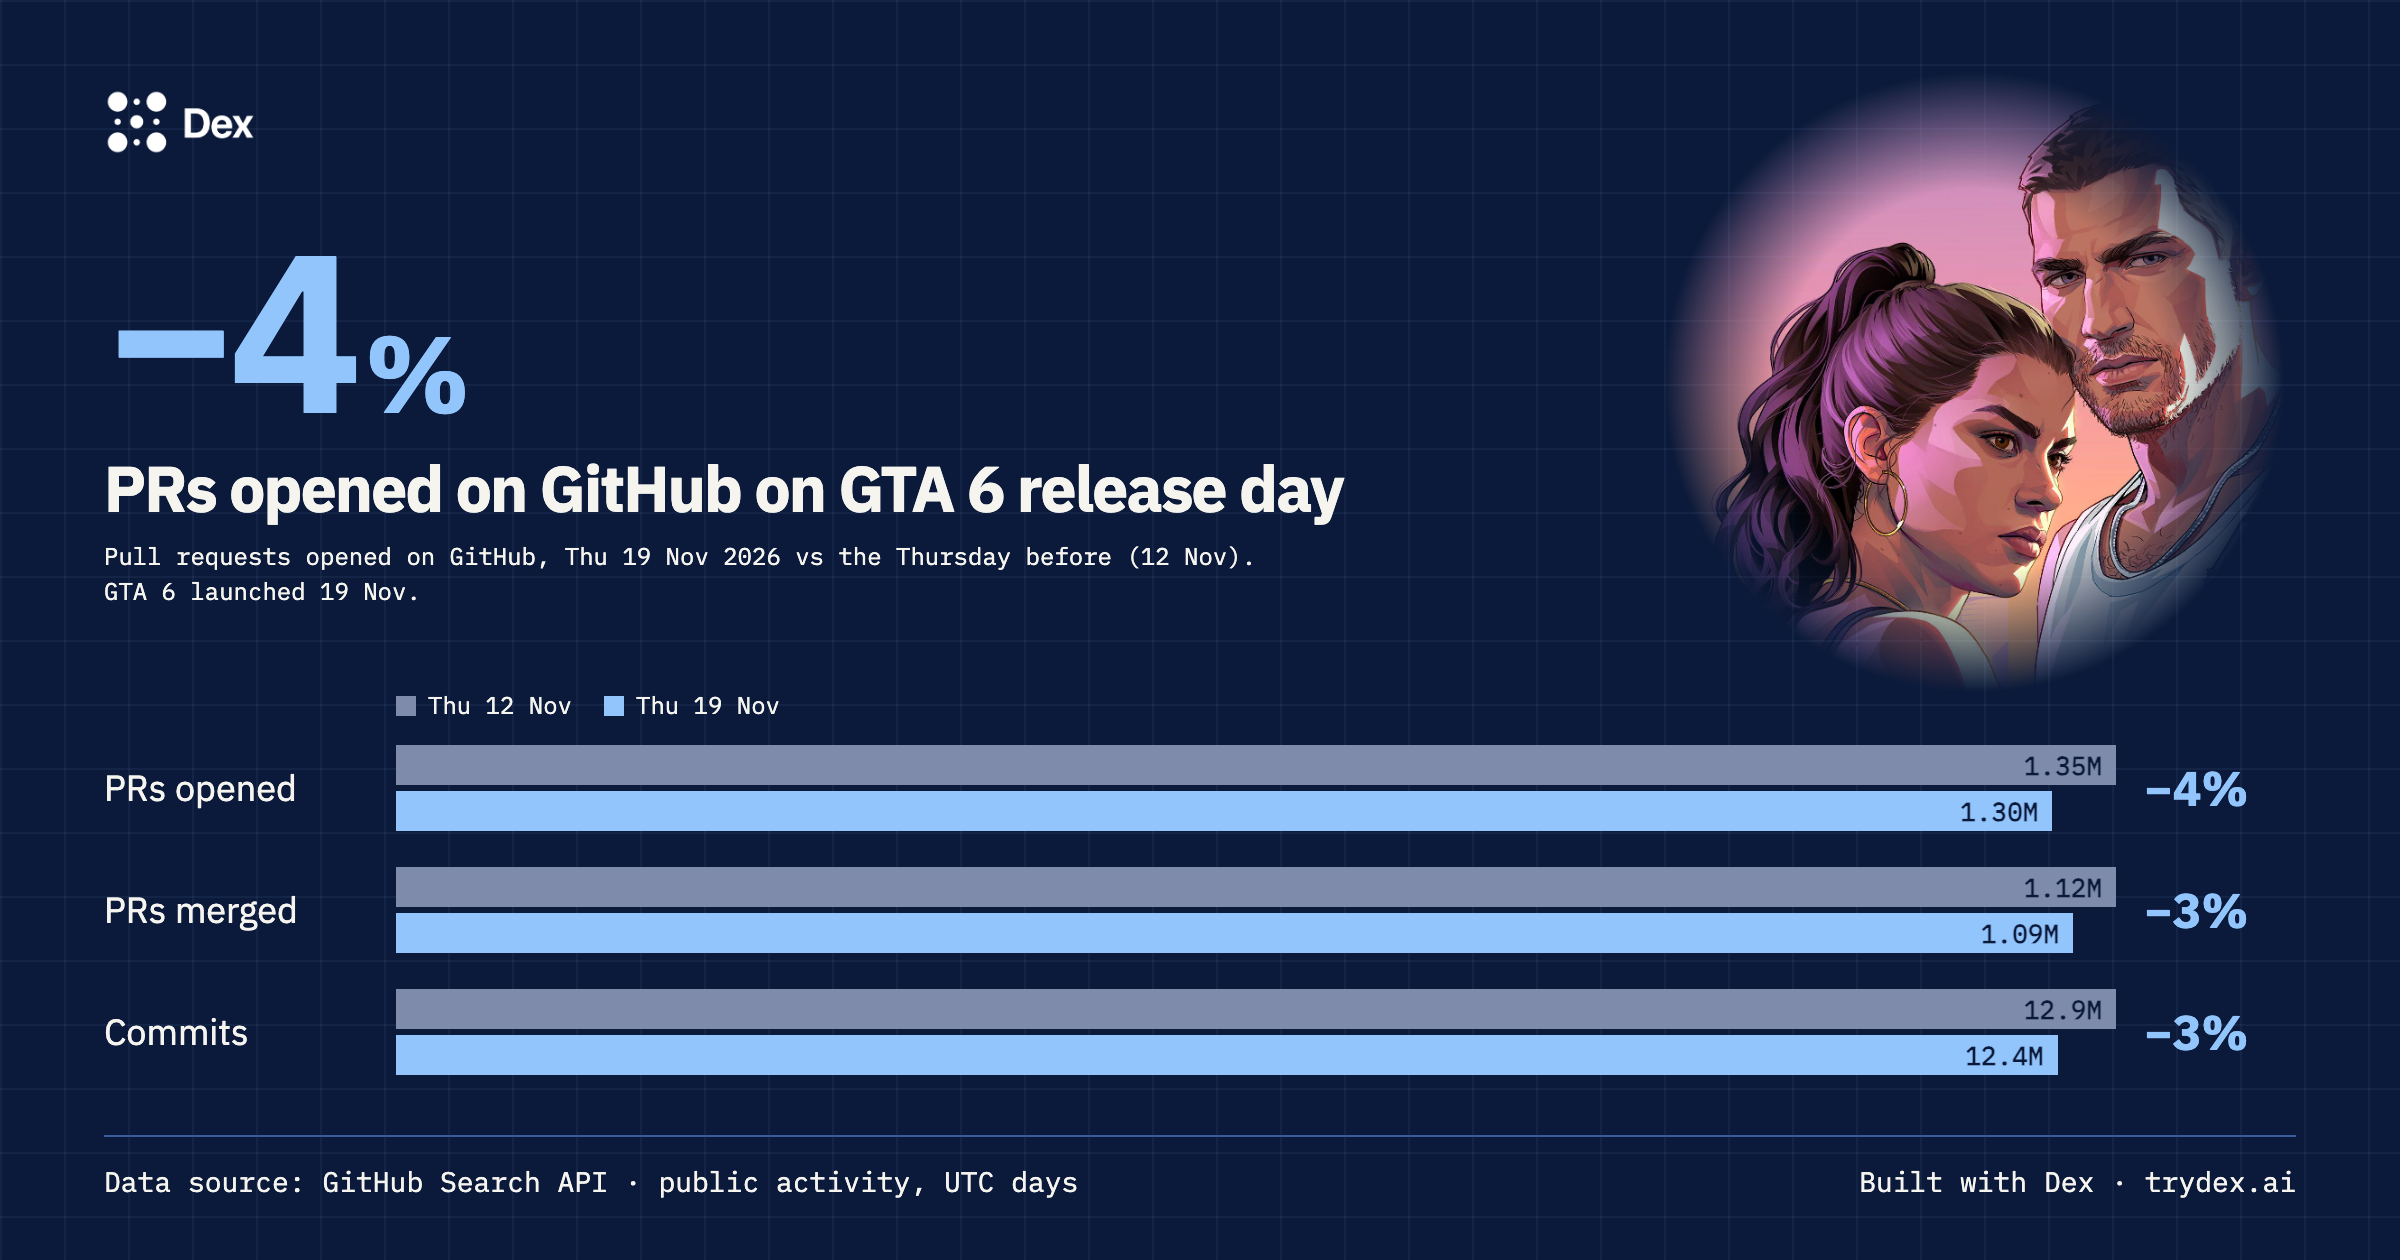
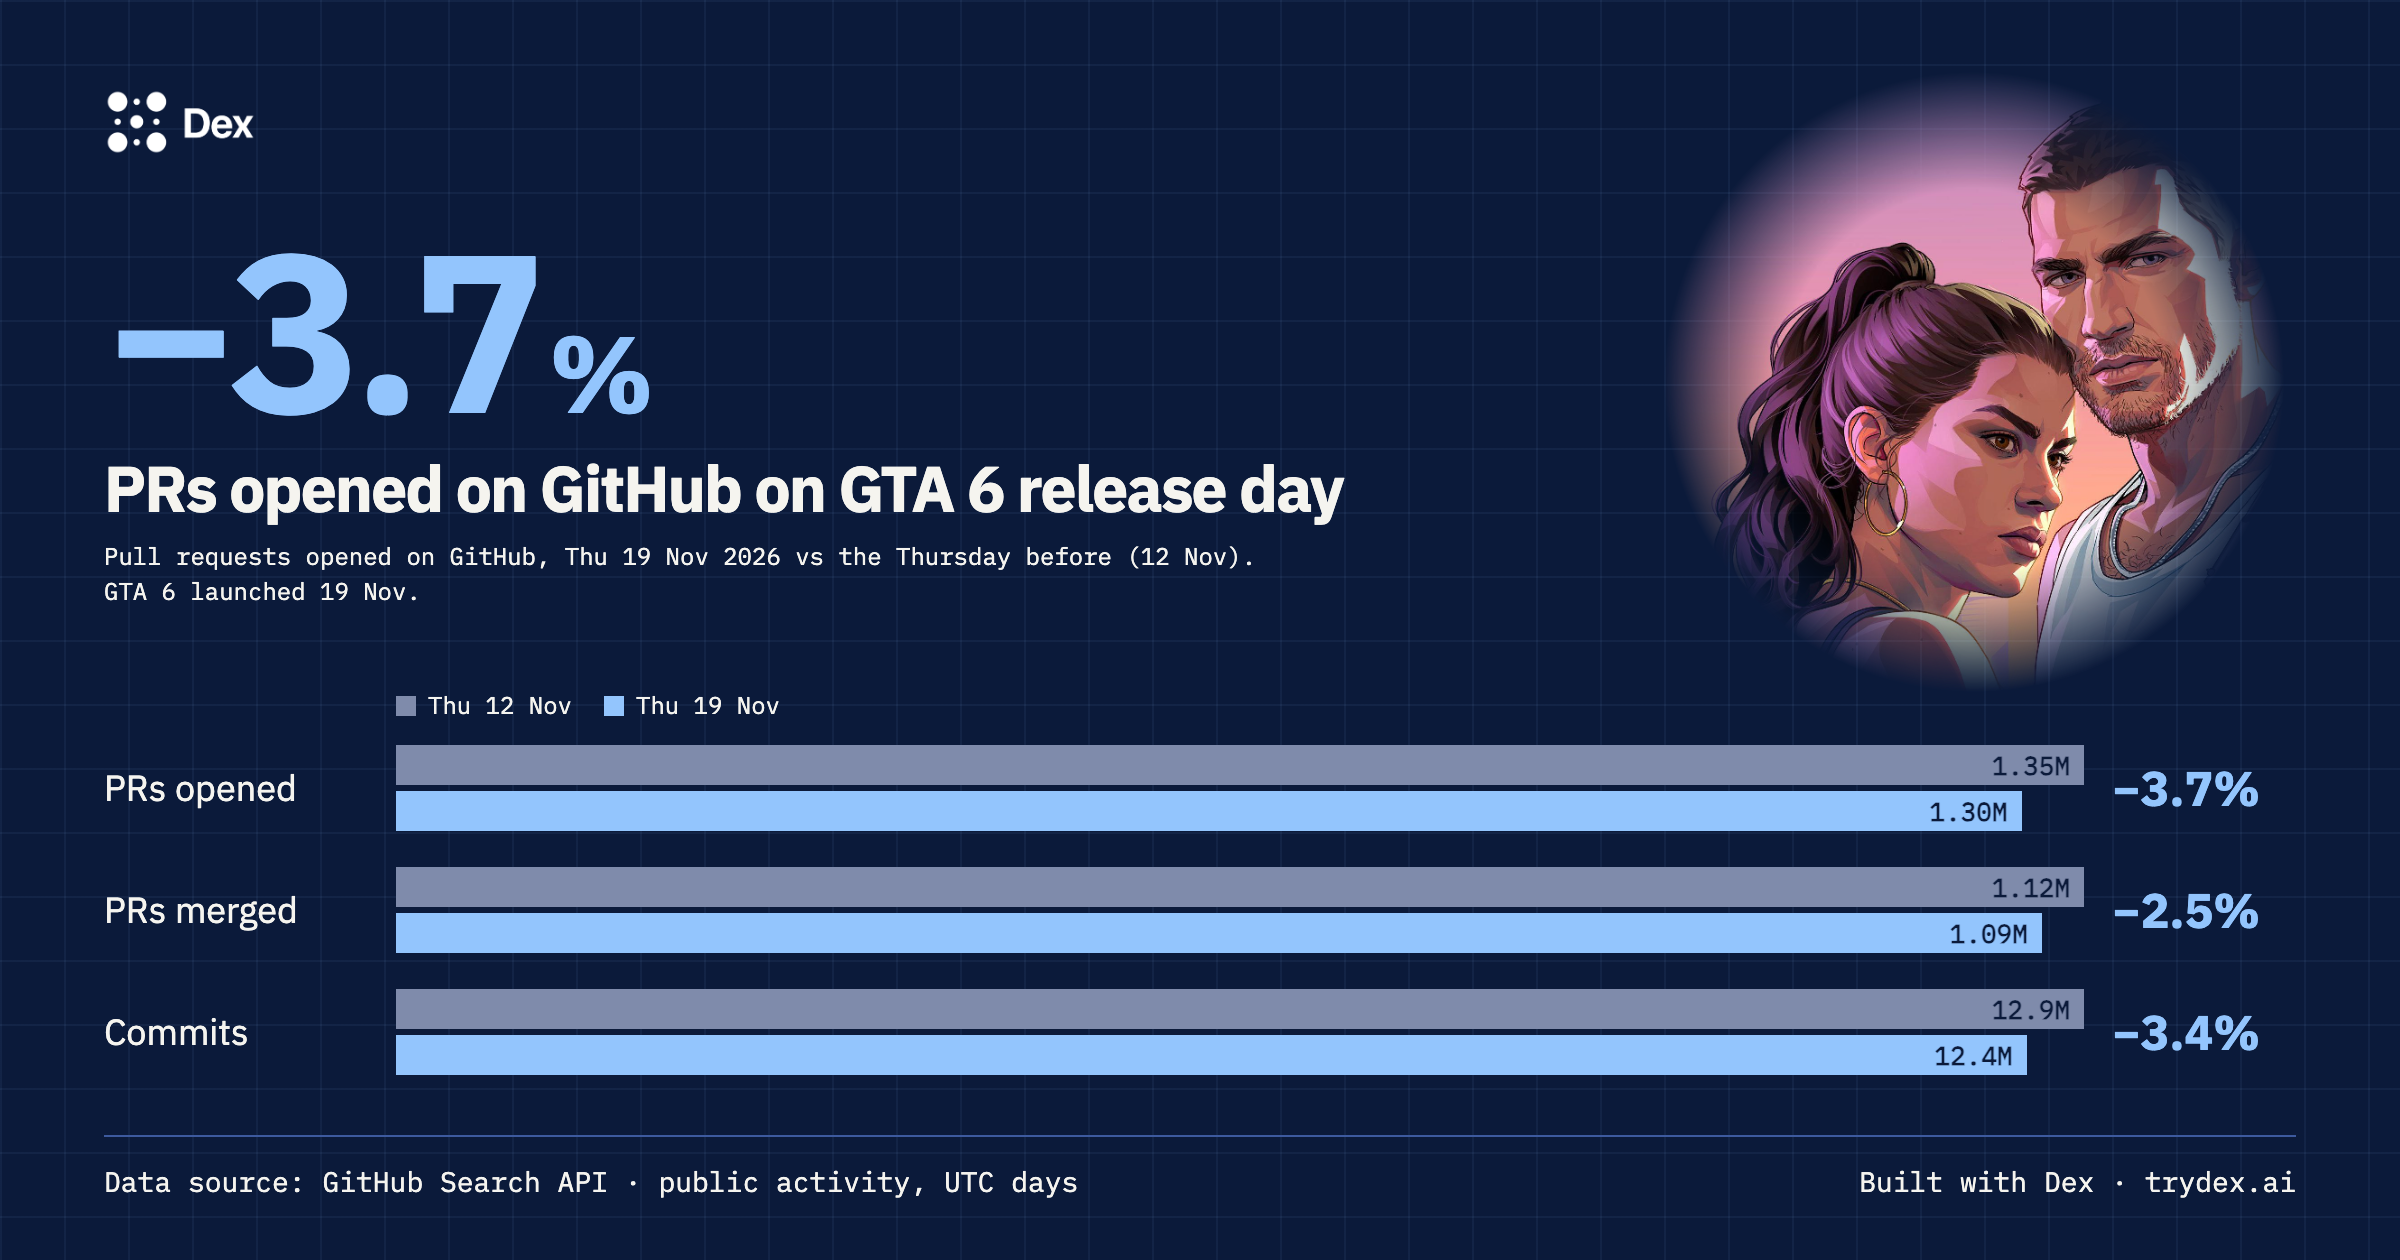
Metric 4 card: one decimal (−3.7%), no rounding
Change column widened on this card only (.card.decimals); Metric 1's card is unchanged.

Changed region(s): [[0.0938, 0.1857, 0.2812, 0.3405], [0.8125, 0.5881, 0.9375, 0.8667]]

diff --git a/charts/github-release-day-portrait-dark.html b/charts/github-release-day-portrait-dark.html
@@ -12,7 +12,7 @@
 </script>
 </head>
 <body>
-<div class="card portrait" style="width:720px;height:900px">
+<div class="card portrait decimals" style="width:720px;height:900px">
   <figure class="aside">
     <img alt="Lucia and Jason, the two leads of GTA 6" src="../assets/gta-6-lucia-and-the-guy.jpg">
   </figure>
@@ -22,13 +22,13 @@
   <div class="main">
     <div class="hero">
       <div>
-        <div class="big">−4<small>%</small></div>
+        <div class="big">−3.7<small>%</small></div>
         <h1>PRs opened on GitHub on GTA 6 release day</h1>
         <p class="fine">Pull requests opened on GitHub,
         <span class="nw">Thu 19 Nov 2026</span> vs
         <span class="nw">the Thursday before (12 Nov)</span>.<br>GTA 6 launched 19 Nov.</p>
       </div>
-      <div class="yoy"><div></div><div class="key"><span><i class="prior"></i>Thu 12 Nov</span><span><i class="current"></i>Thu 19 Nov</span></div><div class="term">PRs opened</div><div class="pair"><b class="prior" style="width:100.0%">1.35M</b><b class="current" style="width:96.3%">1.30M</b></div><div class="change">−4%</div><div class="term">PRs merged</div><div class="pair"><b class="prior" style="width:100.0%">1.12M</b><b class="current" style="width:97.5%">1.09M</b></div><div class="change">−3%</div><div class="term">Commits</div><div class="pair"><b class="prior" style="width:100.0%">12.9M</b><b class="current" style="width:96.6%">12.4M</b></div><div class="change">−3%</div></div>
+      <div class="yoy"><div></div><div class="key"><span><i class="prior"></i>Thu 12 Nov</span><span><i class="current"></i>Thu 19 Nov</span></div><div class="term">PRs opened</div><div class="pair"><b class="prior" style="width:100.0%">1.35M</b><b class="current" style="width:96.3%">1.30M</b></div><div class="change">−3.7%</div><div class="term">PRs merged</div><div class="pair"><b class="prior" style="width:100.0%">1.12M</b><b class="current" style="width:97.5%">1.09M</b></div><div class="change">−2.5%</div><div class="term">Commits</div><div class="pair"><b class="prior" style="width:100.0%">12.9M</b><b class="current" style="width:96.6%">12.4M</b></div><div class="change">−3.4%</div></div>
     </div>
   </div>
   <div class="foot"><span>Data source: GitHub Search API <span class="unit">· public activity, UTC days</span></span><span>Built with <b>Dex</b> · trydex.ai</span></div>

diff --git a/charts/github-release-day-portrait.html b/charts/github-release-day-portrait.html
@@ -12,7 +12,7 @@
 </script>
 </head>
 <body>
-<div class="card portrait" style="width:720px;height:900px">
+<div class="card portrait decimals" style="width:720px;height:900px">
   <figure class="aside">
     <img alt="Lucia and Jason, the two leads of GTA 6" src="../assets/gta-6-lucia-and-the-guy.jpg">
   </figure>
@@ -22,13 +22,13 @@
   <div class="main">
     <div class="hero">
       <div>
-        <div class="big">−4<small>%</small></div>
+        <div class="big">−3.7<small>%</small></div>
         <h1>PRs opened on GitHub on GTA 6 release day</h1>
         <p class="fine">Pull requests opened on GitHub,
         <span class="nw">Thu 19 Nov 2026</span> vs
         <span class="nw">the Thursday before (12 Nov)</span>.<br>GTA 6 launched 19 Nov.</p>
       </div>
-      <div class="yoy"><div></div><div class="key"><span><i class="prior"></i>Thu 12 Nov</span><span><i class="current"></i>Thu 19 Nov</span></div><div class="term">PRs opened</div><div class="pair"><b class="prior" style="width:100.0%">1.35M</b><b class="current" style="width:96.3%">1.30M</b></div><div class="change">−4%</div><div class="term">PRs merged</div><div class="pair"><b class="prior" style="width:100.0%">1.12M</b><b class="current" style="width:97.5%">1.09M</b></div><div class="change">−3%</div><div class="term">Commits</div><div class="pair"><b class="prior" style="width:100.0%">12.9M</b><b class="current" style="width:96.6%">12.4M</b></div><div class="change">−3%</div></div>
+      <div class="yoy"><div></div><div class="key"><span><i class="prior"></i>Thu 12 Nov</span><span><i class="current"></i>Thu 19 Nov</span></div><div class="term">PRs opened</div><div class="pair"><b class="prior" style="width:100.0%">1.35M</b><b class="current" style="width:96.3%">1.30M</b></div><div class="change">−3.7%</div><div class="term">PRs merged</div><div class="pair"><b class="prior" style="width:100.0%">1.12M</b><b class="current" style="width:97.5%">1.09M</b></div><div class="change">−2.5%</div><div class="term">Commits</div><div class="pair"><b class="prior" style="width:100.0%">12.9M</b><b class="current" style="width:96.6%">12.4M</b></div><div class="change">−3.4%</div></div>
     </div>
   </div>
   <div class="foot"><span>Data source: GitHub Search API <span class="unit">· public activity, UTC days</span></span><span>Built with <b>Dex</b> · trydex.ai</span></div>

diff --git a/charts/github-release-day-dark.html b/charts/github-release-day-dark.html
@@ -12,7 +12,7 @@
 </script>
 </head>
 <body>
-<div class="card" style="width:1200px;height:630px">
+<div class="card decimals" style="width:1200px;height:630px">
   <figure class="aside">
     <img alt="Lucia and Jason, the two leads of GTA 6" src="../assets/gta-6-lucia-and-the-guy.jpg">
   </figure>
@@ -22,13 +22,13 @@
   <div class="main">
     <div class="hero">
       <div>
-        <div class="big">−4<small>%</small></div>
+        <div class="big">−3.7<small>%</small></div>
         <h1>PRs opened on GitHub on GTA 6 release day</h1>
         <p class="fine">Pull requests opened on GitHub,
         <span class="nw">Thu 19 Nov 2026</span> vs
         <span class="nw">the Thursday before (12 Nov)</span>.<br>GTA 6 launched 19 Nov.</p>
       </div>
-      <div class="yoy"><div></div><div class="key"><span><i class="prior"></i>Thu 12 Nov</span><span><i class="current"></i>Thu 19 Nov</span></div><div class="term">PRs opened</div><div class="pair"><b class="prior" style="width:100.0%">1.35M</b><b class="current" style="width:96.3%">1.30M</b></div><div class="change">−4%</div><div class="term">PRs merged</div><div class="pair"><b class="prior" style="width:100.0%">1.12M</b><b class="current" style="width:97.5%">1.09M</b></div><div class="change">−3%</div><div class="term">Commits</div><div class="pair"><b class="prior" style="width:100.0%">12.9M</b><b class="current" style="width:96.6%">12.4M</b></div><div class="change">−3%</div></div>
+      <div class="yoy"><div></div><div class="key"><span><i class="prior"></i>Thu 12 Nov</span><span><i class="current"></i>Thu 19 Nov</span></div><div class="term">PRs opened</div><div class="pair"><b class="prior" style="width:100.0%">1.35M</b><b class="current" style="width:96.3%">1.30M</b></div><div class="change">−3.7%</div><div class="term">PRs merged</div><div class="pair"><b class="prior" style="width:100.0%">1.12M</b><b class="current" style="width:97.5%">1.09M</b></div><div class="change">−2.5%</div><div class="term">Commits</div><div class="pair"><b class="prior" style="width:100.0%">12.9M</b><b class="current" style="width:96.6%">12.4M</b></div><div class="change">−3.4%</div></div>
     </div>
   </div>
   <div class="foot"><span>Data source: GitHub Search API <span class="unit">· public activity, UTC days</span></span><span>Built with <b>Dex</b> · trydex.ai</span></div>

diff --git a/charts/github-release-day.html b/charts/github-release-day.html
@@ -12,7 +12,7 @@
 </script>
 </head>
 <body>
-<div class="card" style="width:1200px;height:630px">
+<div class="card decimals" style="width:1200px;height:630px">
   <figure class="aside">
     <img alt="Lucia and Jason, the two leads of GTA 6" src="../assets/gta-6-lucia-and-the-guy.jpg">
   </figure>
@@ -22,13 +22,13 @@
   <div class="main">
     <div class="hero">
       <div>
-        <div class="big">−4<small>%</small></div>
+        <div class="big">−3.7<small>%</small></div>
         <h1>PRs opened on GitHub on GTA 6 release day</h1>
         <p class="fine">Pull requests opened on GitHub,
         <span class="nw">Thu 19 Nov 2026</span> vs
         <span class="nw">the Thursday before (12 Nov)</span>.<br>GTA 6 launched 19 Nov.</p>
       </div>
-      <div class="yoy"><div></div><div class="key"><span><i class="prior"></i>Thu 12 Nov</span><span><i class="current"></i>Thu 19 Nov</span></div><div class="term">PRs opened</div><div class="pair"><b class="prior" style="width:100.0%">1.35M</b><b class="current" style="width:96.3%">1.30M</b></div><div class="change">−4%</div><div class="term">PRs merged</div><div class="pair"><b class="prior" style="width:100.0%">1.12M</b><b class="current" style="width:97.5%">1.09M</b></div><div class="change">−3%</div><div class="term">Commits</div><div class="pair"><b class="prior" style="width:100.0%">12.9M</b><b class="current" style="width:96.6%">12.4M</b></div><div class="change">−3%</div></div>
+      <div class="yoy"><div></div><div class="key"><span><i class="prior"></i>Thu 12 Nov</span><span><i class="current"></i>Thu 19 Nov</span></div><div class="term">PRs opened</div><div class="pair"><b class="prior" style="width:100.0%">1.35M</b><b class="current" style="width:96.3%">1.30M</b></div><div class="change">−3.7%</div><div class="term">PRs merged</div><div class="pair"><b class="prior" style="width:100.0%">1.12M</b><b class="current" style="width:97.5%">1.09M</b></div><div class="change">−2.5%</div><div class="term">Commits</div><div class="pair"><b class="prior" style="width:100.0%">12.9M</b><b class="current" style="width:96.6%">12.4M</b></div><div class="change">−3.4%</div></div>
     </div>
   </div>
   <div class="foot"><span>Data source: GitHub Search API <span class="unit">· public activity, UTC days</span></span><span>Built with <b>Dex</b> · trydex.ai</span></div>

diff --git a/brand/charts.css b/brand/charts.css
@@ -105,6 +105,9 @@ h1 .red { color: var(--dex-redline); }
 .card.portrait .yoy .term { font-size: 19px; }
 .card.portrait .yoy .pair b { height: 24px; }
 .card.portrait .yoy .change { font-size: 26px; }
+/* One-decimal changes (−3.7%) need a wider last column than whole ones. */
+.card.decimals .yoy { grid-template-columns: 132px 1fr 92px; }
+.card.portrait.decimals .yoy { grid-template-columns: 136px 1fr 100px; }
 .card.portrait .foot { flex-direction: column; align-items: flex-start; gap: 4px; font-size: 13px; }
 
 /* Metric 2: the two GTA launches as quiet bookends, not alerts. */

diff --git a/site/index.html b/site/index.html
@@ -68,7 +68,7 @@
 <main>
 <header>
   <img id="logo" alt="Dex" src="brand/assets/dex-logo-black.png">
-  <span class="meta">GTA 6 vs. productivity · updated 2026-11-20 09:20 UTC</span>
+  <span class="meta">GTA 6 vs. productivity · updated 2026-11-20 09:27 UTC</span>
 </header>
 <h1>Between GTA 5 and GTA 6, humanity made <em>$1.14 quadrillion</em> of stuff.</h1>
 <p class="lede">4,811 days of world output, from 17 September 2013 to the night before GTA 6. We landed on a comet. We photographed a black hole. We caught a spaceship. Now we play GTA.</p>

diff --git a/src/gta6_impact/charts/build.py b/src/gta6_impact/charts/build.py
@@ -214,8 +214,8 @@ def _millions(v: float) -> str:
 
 
 def _signed(v: float) -> str:
-    """+3 or −3, with a real minus sign: a hyphen reads as a dash at display sizes."""
-    return f"{v:+.0f}".replace("-", "\u2212")
+    """+3.7 or −3.7, one decimal, with a real minus sign (a hyphen reads as a dash)."""
+    return f"{v:+.1f}".replace("-", "\u2212")
 
 
 def _short(day: dt.date) -> str:
@@ -315,8 +315,8 @@ def github_card(png: bool) -> dict | None:
     <img alt="Lucia and Jason, the two leads of GTA 6" src="../assets/gta-6-lucia-and-the-guy.jpg">
   </figure>"""
     for name, w, h, variant in (
-        ("github-release-day", 1200, 630, ""),
-        ("github-release-day-portrait", 720, 900, "portrait"),
+        ("github-release-day", 1200, 630, "decimals"),
+        ("github-release-day-portrait", 720, 900, "portrait decimals"),
     ):
         _write(
             name,
@@ -326,7 +326,7 @@ def github_card(png: bool) -> dict | None:
             source=GITHUB_SOURCE,
             w=w,
             h=h,
-            data=data if not variant else None,
+            data=data if "portrait" not in variant else None,
             png=png,
             variant=variant,
         )
